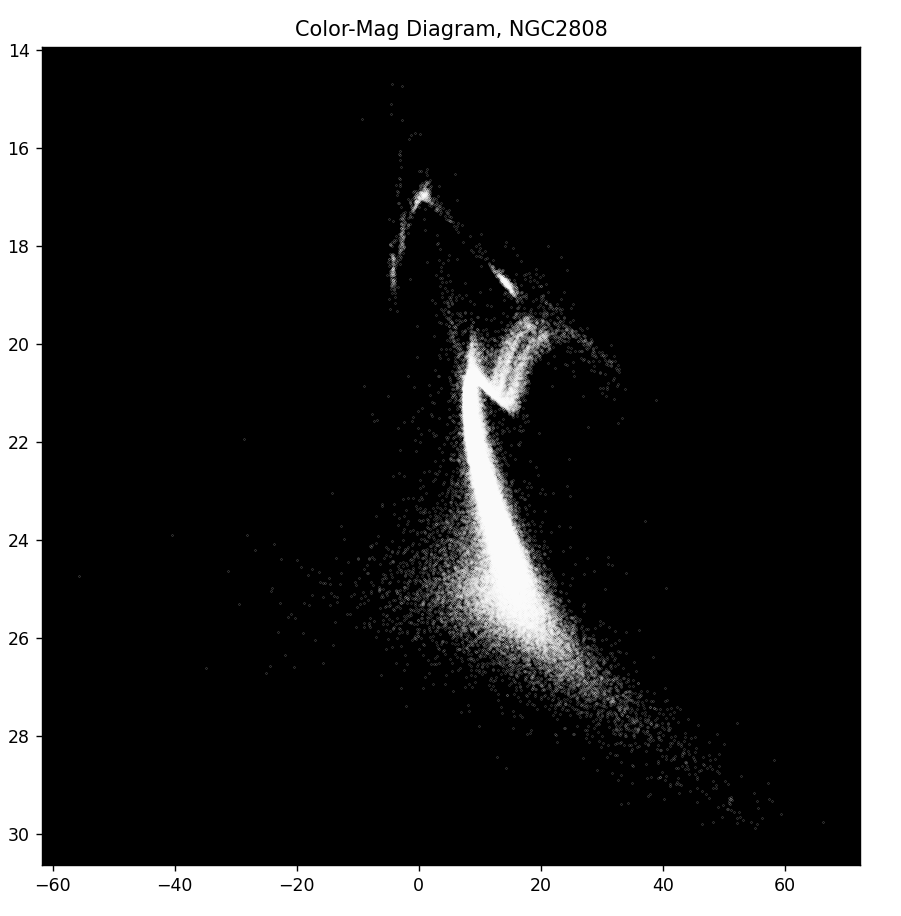
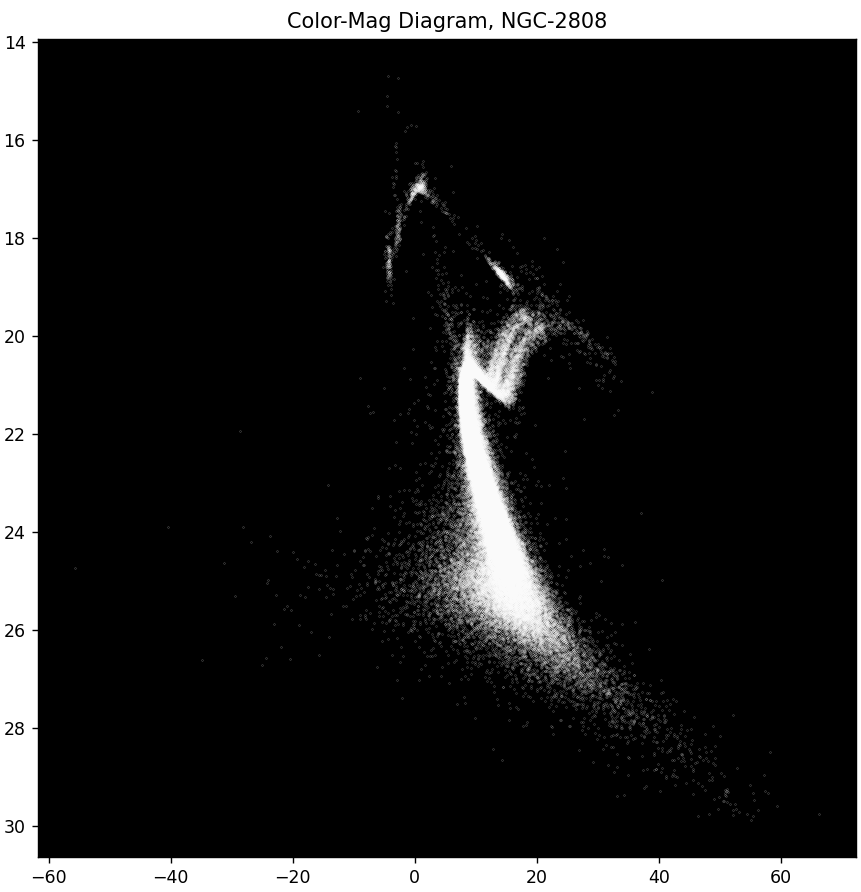
Added images of the plots

diff --git a/color_mag.py b/color_mag.py
@@ -43,6 +43,6 @@ CMD.invert_yaxis()
 background = plt.gca()
 background.set_facecolor('black')
 CMD.set_aspect(1.0/CMD.get_data_ratio(), adjustable='box')
-CMD.set_title("Color-Mag Diagram, NGC2808")
+CMD.set_title("Color-Mag Diagram, NGC-2808")
 plt.show()
 #magnitudes = avg

diff --git a/README.md b/README.md
@@ -6,6 +6,11 @@ A project dedicated to understanding the process of stellar evolution, and analy
 
 * The catalog has been taken from the "meth01" file in https://archive.stsci.edu/prepds/hugs/ . It has a file size of over 118MB.
 
-* color_mag.py currently makes an inverse plot the difference in apparent magnitudes versus column 3
+* color_mag.py makes an inverse plot of the difference in apparent magnitudes v/s F275W magnitude.
 
-* cluster_diagram.py uses stellar positions as well as apparent magnitudes to plot an approximaion of the star cluster from the snapshot. Unlike color_mag, it also filters out stars with low probability using the probability column.
+* cluster_diagram.py uses stellar positions as well as apparent magnitudes to plot an approximaion of the star cluster from the snapshot.
+
+* diagram.png shows the CMD generated by color_mag.py.
+
+* cluster.png shows the star cluster visualization created by cluster_diagram.py
+
